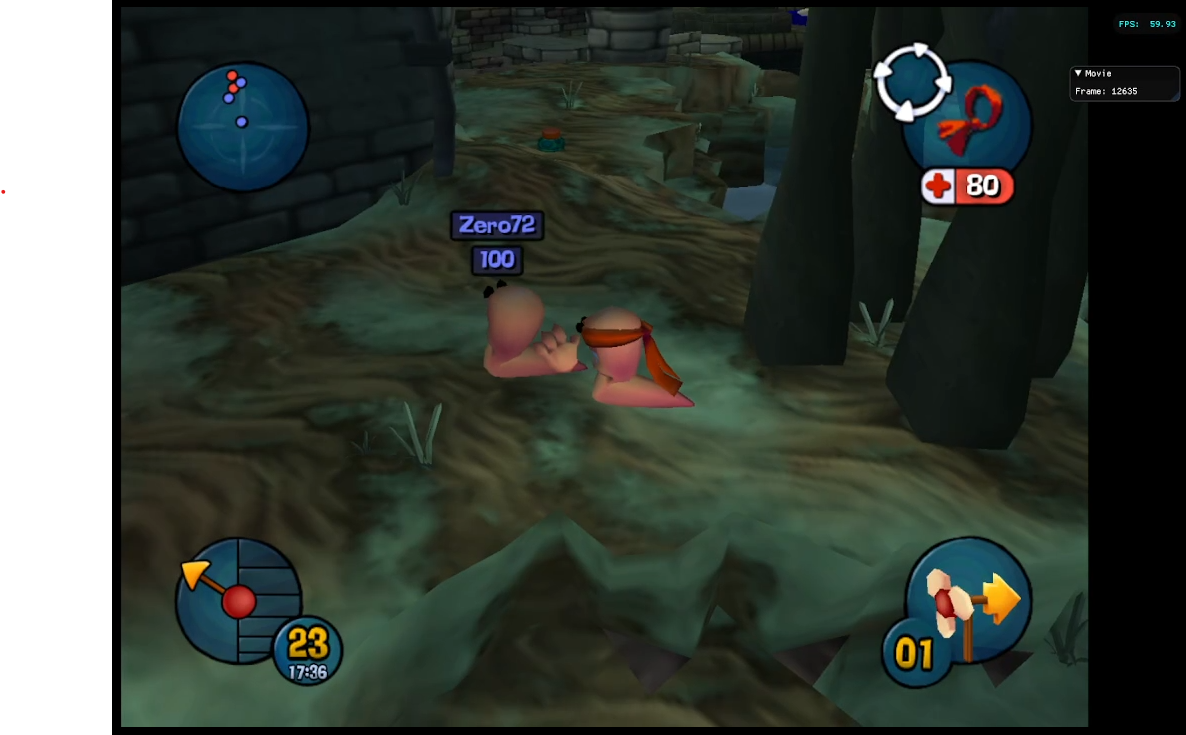
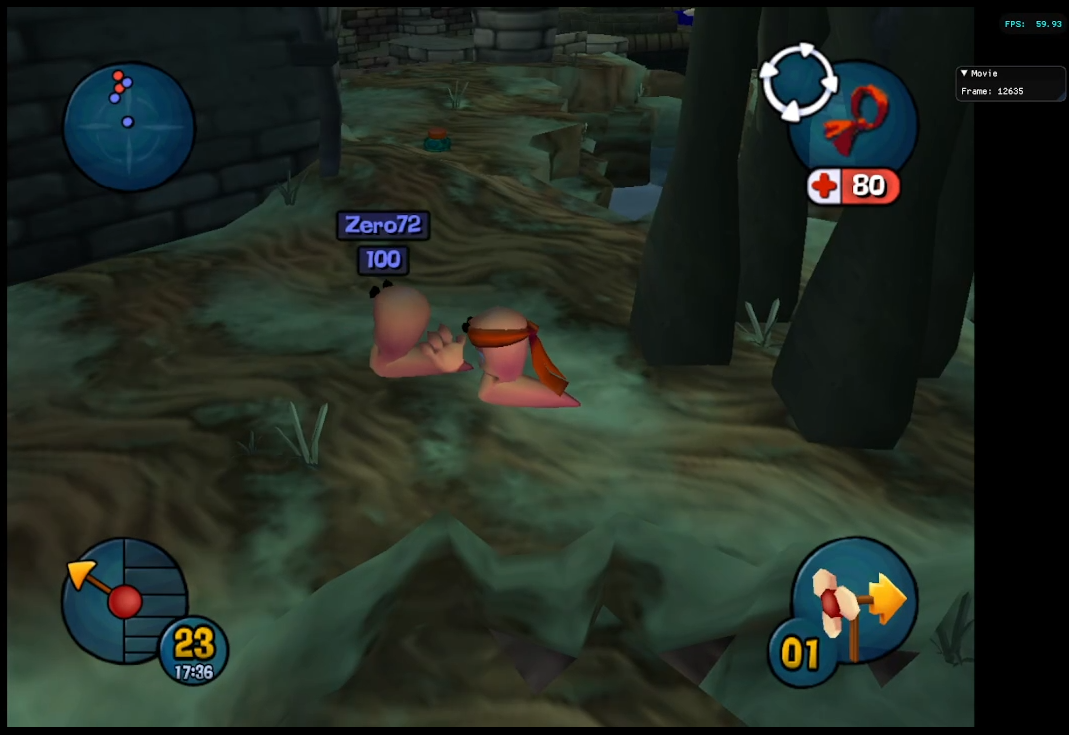
Fix thumbnail

diff --git a/README.md b/README.md
@@ -155,6 +155,4 @@ Weapon damage is determined by this entry:
 
 Here is an example of modifying this value to 100:
 
-
-[Fire punch damage modification](damage_mod.mp4?raw=true)
-[![Fire punch damage mod](damage_mod.png?raw=true)](damage_mod.mp4)
+[![Fire punch damage mod](damage_mod.png?raw=true)](damage_mod.mp4?raw=true)
